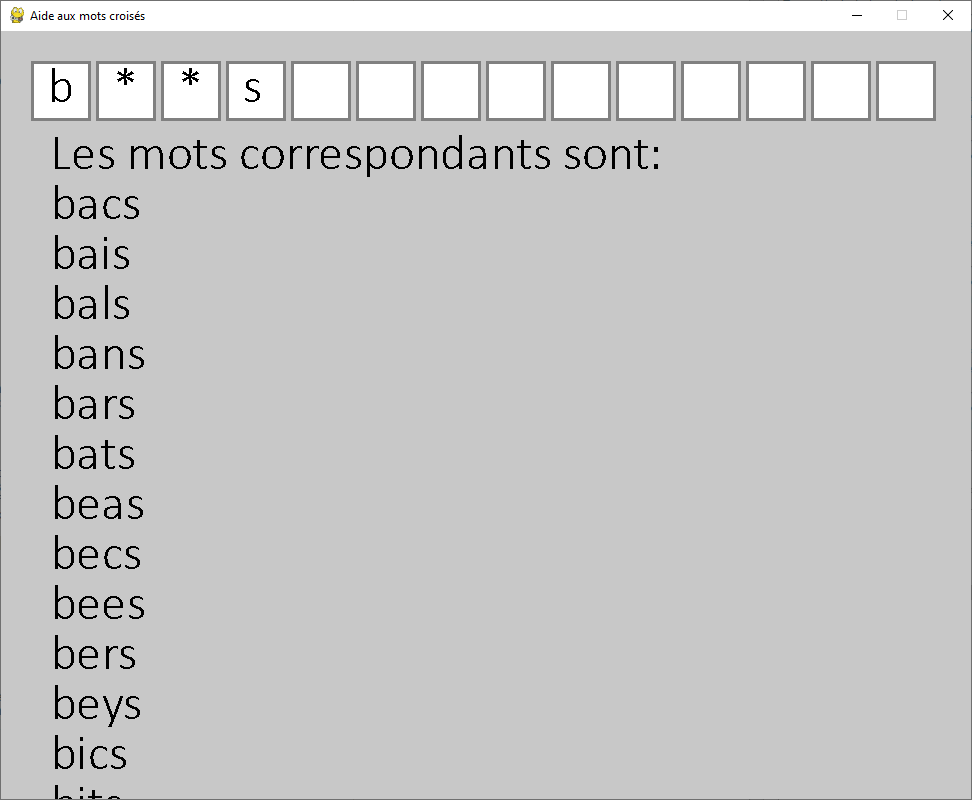
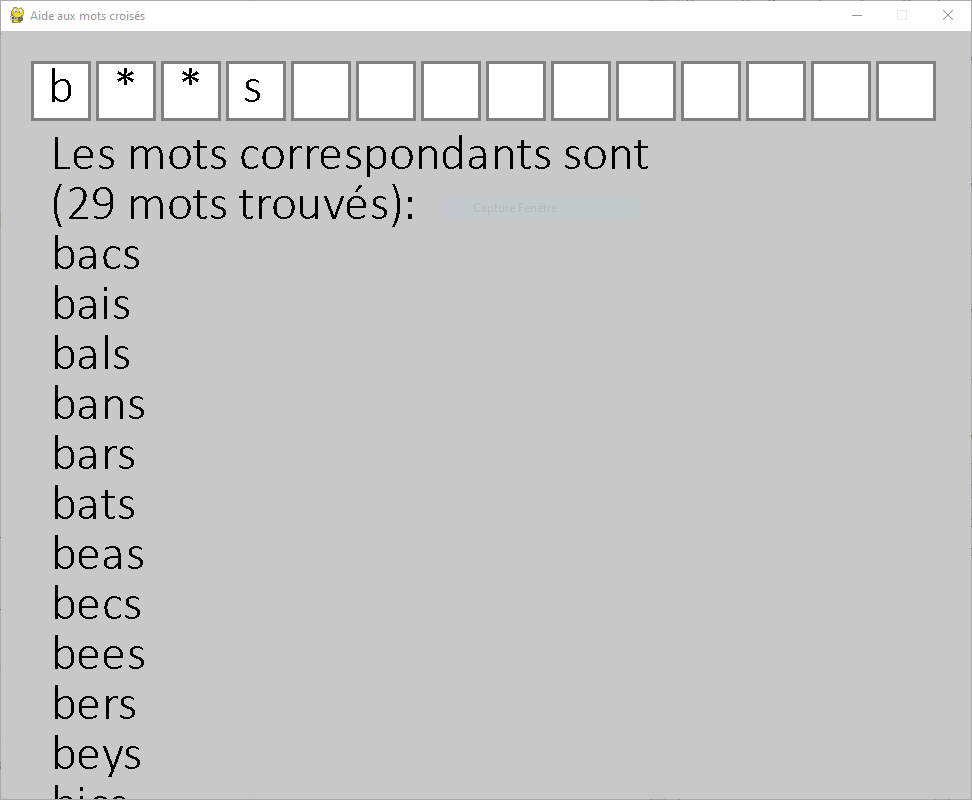
Updated the results text

diff --git a/main.py b/main.py
@@ -92,10 +92,19 @@ def main():
             if event.type == pygame.KEYDOWN:
                 if event.key == pygame.K_RETURN:
                     results = findWord(word.lower())
-                    resultsText =  "Les mots correspondants sont:\n"
+                    if len(results) > 1:
+                        resultsText =  f"Les mots correspondants sont \n({len(results)} mots trouvés):\n"
 
-                    for i in range(len(results)):
-                        resultsText += (results[i] + "\n")
+                        for i in range(len(results)):
+                            resultsText += (results[i] + "\n")
+
+                    elif len(results) == 1:
+                        resultsText =  f"Le mot correspondant est: \n"
+
+                        resultsText += results[0]
+
+                    else:
+                        resultsText =  "Aucun mot ne correspond"
 
                 elif event.key == pygame.K_BACKSPACE:
                     word = word[:-1]
